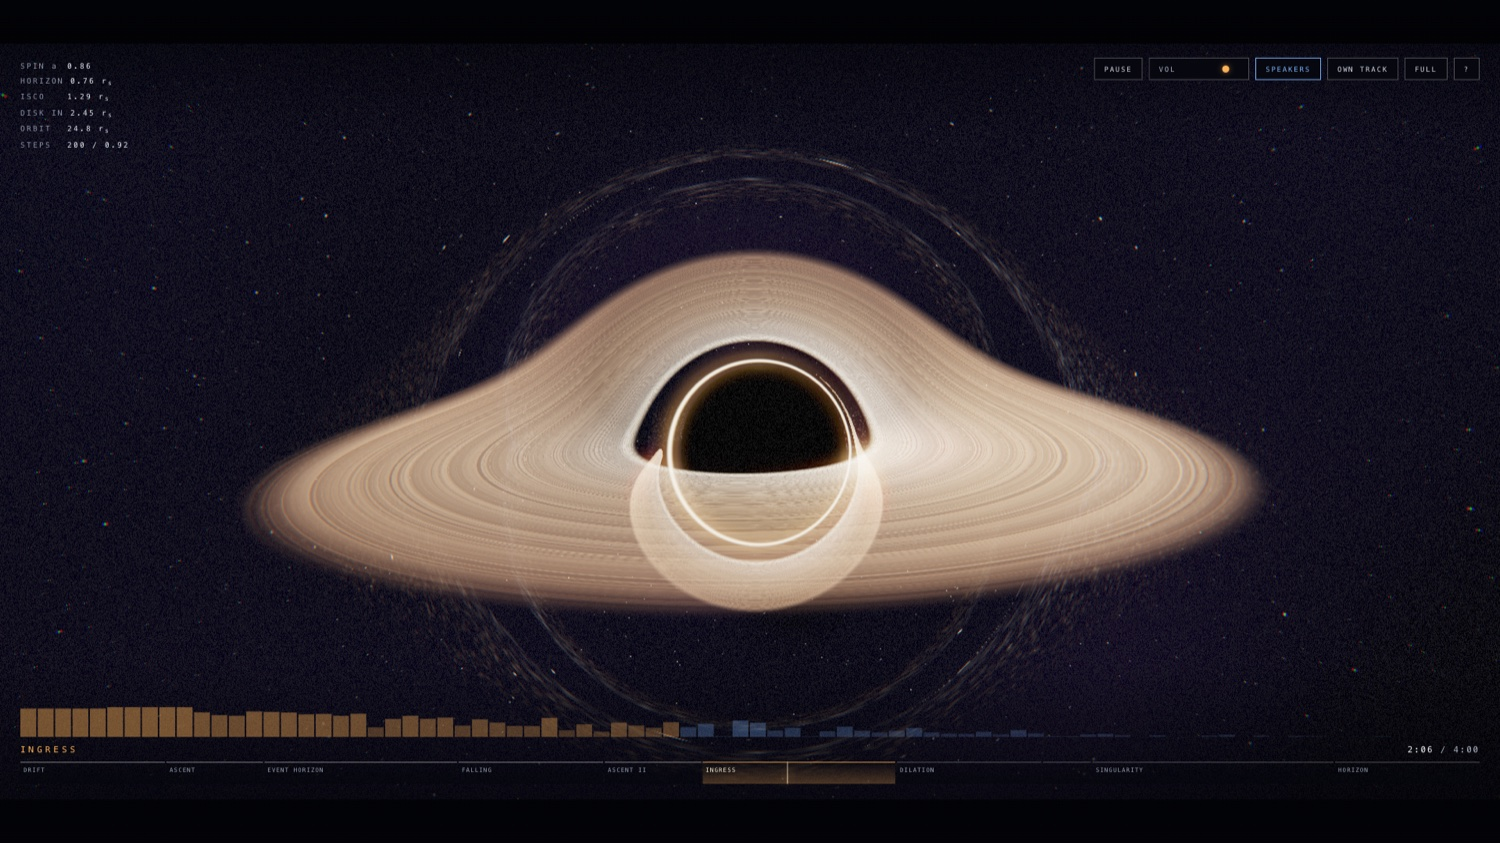
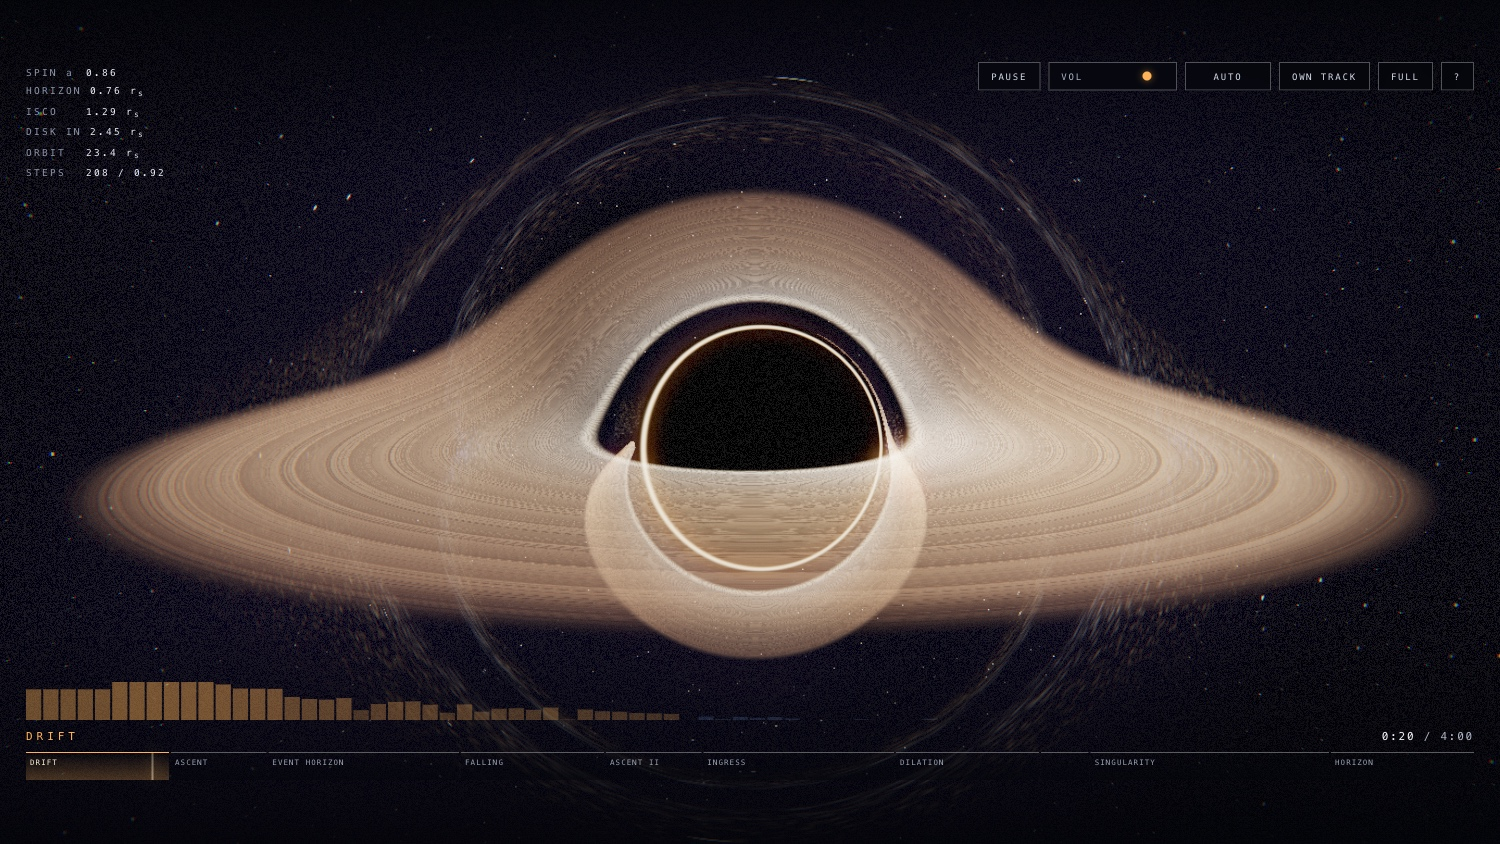
Detect the output device, and even up the picker
The voicing was a three-way manual choice defaulting to Laptop, so anyone
on headphones heard a mix built to survive a 2-inch driver until they
found the control. Auto is now the default and the fourth segment.

What the browser will actually tell us is narrow. enumerateDevices()
returns one entry with an empty label and an empty id until the page holds
a microphone permission, and prompting for the mic to choose an EQ curve
is not a trade worth making — so nothing here can spot a KEF LSX II on the
end of a cable. That leaves device class, from UA-CH and touch points, and
AudioContext.outputLatency, which sits near 10ms on a built-in output and
past 100ms over a wireless link.

So Auto picks built-in, or headphones when the link is wireless, since
earbuds are much the more common wireless output. Powered speakers stay a
deliberate choice. The line under the buttons says which guess it made and
why rather than implying a certainty that is not there, and Auto re-checks
on devicechange so plugging in headphones re-voices the mix. Choose a mode
yourself and Auto stands down — a heuristic should not overrule an
explicit choice, and it does not.

The segments are a grid of even columns now; four labels of different
lengths made ragged cells read as broken. They fold to 2x2 below 640px,
where four across left "Headphones" nothing to spare.

Two things verification turned up. The HUD label changes with the mode, so
[…]

diff --git a/src/index.html b/src/index.html
@@ -83,12 +83,24 @@ h1{font-family:var(--disp);font-weight:200;font-size:clamp(52px,15vw,168px);
 .pick{margin-top:36px;text-align:center}
 .picklabel{display:block;font-size:9px;letter-spacing:.28em;color:var(--dim);
   text-transform:uppercase;margin-bottom:10px}
-.seg2{display:inline-flex;border:1px solid var(--line)}
-.seg2 button{background:none;border:0;color:var(--dim);font-family:var(--mono);font-size:9.5px;
-  letter-spacing:.2em;text-transform:uppercase;padding:11px 18px;cursor:pointer;
-  transition:color .25s,background .25s}
+/* Even columns. The four labels differ in length, and ragged segments in a
+   control this small read as broken rather than as emphasis. minmax(0,1fr)
+   so the longest label shrinks its own cell instead of stretching the row. */
+.seg2{display:grid;grid-template-columns:repeat(4,minmax(0,1fr));
+  border:1px solid var(--line);max-width:456px;margin:0 auto}
+.seg2 button{background:none;border:0;border-left:1px solid var(--line);
+  color:var(--dim);font-family:var(--mono);font-size:9.5px;
+  letter-spacing:.14em;text-transform:uppercase;padding:11px 4px;cursor:pointer;
+  transition:color .25s,background .25s;white-space:nowrap}
+.seg2 button:first-child{border-left:0}
 .seg2 button.on{color:#05060a;background:var(--ember)}
-.seg2 button:focus-visible{outline:1px solid var(--ember);outline-offset:2px}
+.seg2 button:focus-visible{outline:1px solid var(--ember);outline-offset:-2px}
+/* Says what you are about to hear — and, on Auto, what was guessed and why.
+   Reserved height so resolving the guess does not shift the button row. */
+.pickwhy{display:block;margin-top:11px;font-size:9px;letter-spacing:.14em;
+  color:var(--dim);text-transform:uppercase;min-height:28px;line-height:1.5;
+  padding:0 12px;text-wrap:balance}
+.pickwhy b{color:var(--ember);font-weight:400}
 .note{margin-top:24px;font-size:9.5px;letter-spacing:.16em;color:var(--dim);text-align:center;padding:0 24px}
 .note a{color:var(--dim);text-decoration:underline;text-underline-offset:3px;cursor:pointer}
 
@@ -129,6 +141,9 @@ h1{font-family:var(--disp);font-weight:200;font-size:clamp(52px,15vw,168px);
      background:rgba(4,6,11,.88);outline:none}
 .btn:focus-visible{box-shadow:0 0 0 2px rgba(255,178,87,.45)}
 .btn.on{color:var(--ion);border-color:var(--ion)}
+/* this label changes with the mode (AUTO / BUILT-IN / SPEAKERS / PHONES);
+   a floor on the width stops the whole control row reflowing as it cycles */
+#bVoice{min-width:86px}
 
 .vol{display:flex;align-items:center;gap:9px;border:1px solid rgba(255,255,255,.30);
      background:rgba(4,6,11,.72);-webkit-backdrop-filter:blur(9px);backdrop-filter:blur(9px);
@@ -227,8 +242,14 @@ h1{font-family:var(--disp);font-weight:200;font-size:clamp(52px,15vw,168px);
   /* controls stay reachable on phones — they used to be hidden entirely,
      which left no way to pause or change output. left+right gives the row a
      real width so it wraps instead of running off the edge. */
-  .tr{top:calc(5.2vh + 12px);left:14px;right:14px;gap:6px;row-gap:6px}
-  .btn{font-size:8px;padding:9px 8px;letter-spacing:.12em}
+  /* six controls in ~347px: at 6px gaps and 8px padding the row came to
+     356px and wrapped, stranding the "?" alone on a second line. Trimming
+     the gap and the side padding buys 21px, which fits it on one row.
+     Under a coarse pointer the 44px touch rules below win and it wraps
+     anyway — a finger-sized target is worth more than a tidy row. */
+  .tr{top:calc(5.2vh + 12px);left:14px;right:14px;gap:5px;row-gap:6px}
+  .btn{font-size:8px;padding:9px 7px;letter-spacing:.12em}
+  #bVoice{min-width:62px}
   .vol{padding:0 9px}
   .vol input{width:56px}
   /* the "VOL" caption does not fit, so the track has to carry the meaning —
@@ -251,6 +272,14 @@ h1{font-family:var(--disp);font-weight:200;font-size:clamp(52px,15vw,168px);
   .eyebrow{font-size:9px;letter-spacing:.3em;padding:0 20px;text-align:center}
   .specs{gap:16px 24px;max-width:230px;margin-left:auto;margin-right:auto;margin-top:28px}
   .pick{margin-top:28px}
+  /* Four segments across a phone leaves "Headphones" ~76px of cell; it fits
+     but only just, and any larger text setting breaks it. Two rows of two
+     keeps the cells even and the labels whole. */
+  .seg2{grid-template-columns:repeat(2,minmax(0,1fr));max-width:300px}
+  .seg2 button{font-size:9px;letter-spacing:.12em}
+  .seg2 button:nth-child(3){border-left:0}
+  .seg2 button:nth-child(-n+2){border-bottom:1px solid var(--line)}
+  .pickwhy{min-height:34px;padding:0}
   #go{padding:16px 30px;letter-spacing:.28em}
   /* "EVENT HORIZON" is 13 characters — at full tracking it runs off a phone */
   #dropName{font-size:clamp(19px,5.6vw,30px)}
@@ -296,7 +325,7 @@ h1{font-family:var(--disp);font-weight:200;font-size:clamp(52px,15vw,168px);
     <button class="btn" id="bPause" aria-label="Pause or resume">PAUSE</button>
     <div class="vol"><span>VOL</span>
       <input id="vol" type="range" min="0" max="100" value="80" aria-label="Volume"></div>
-    <button class="btn" id="bVoice" aria-label="Toggle speaker voicing">SPEAKERS</button>
+    <button class="btn" id="bVoice" aria-label="Change output voicing">AUTO</button>
     <button class="btn" id="bLoad" aria-label="Play your own audio file">OWN TRACK</button>
     <button class="btn" id="bFull" aria-label="Toggle fullscreen">FULL</button>
     <button class="btn" id="bHelp" aria-label="Keyboard shortcuts">?</button>
@@ -332,7 +361,7 @@ h1{font-family:var(--disp);font-weight:200;font-size:clamp(52px,15vw,168px);
       <dt>← →</dt><dd>Skip 10 seconds</dd>
       <dt>↑ ↓</dt><dd>Volume</dd>
       <dt>R</dt><dd>Restart from the beginning</dd>
-      <dt>V</dt><dd>Cycle laptop / speakers / headphones</dd>
+      <dt>V</dt><dd>Cycle auto / built-in / speakers / headphones</dd>
       <dt>F</dt><dd>Fullscreen</dd>
       <dt>H or ?</dt><dd>Show or hide this panel</dd>
       <dt>Drop a file</dt><dd>Visualise your own audio</dd>
@@ -356,10 +385,12 @@ h1{font-family:var(--disp);font-weight:200;font-size:clamp(52px,15vw,168px);
   <div class="pick">
     <span class="picklabel">Playing through</span>
     <div class="seg2" role="group" aria-label="Output voicing">
-      <button data-voice="laptop" class="on" aria-pressed="true">Laptop</button>
+      <button data-voice="auto" class="on" aria-pressed="true">Auto</button>
+      <button data-voice="laptop" aria-pressed="false">Built-in</button>
       <button data-voice="monitors" aria-pressed="false">Speakers</button>
       <button data-voice="phones" aria-pressed="false">Headphones</button>
     </div>
+    <span class="pickwhy" id="pickwhy" aria-live="polite"></span>
   </div>
   <button id="go">Enter the well</button>
   <div class="note">
@@ -1872,33 +1903,102 @@ $('bFull').onclick = () => {
   else document.exitFullscreen();
 };
 const VOICE_KEY = 'kerr.voicing';
-const VOICE_ORDER = ['laptop', 'monitors', 'phones'];
-const VOICE_LABEL = { laptop:'LAPTOP', monitors:'SPEAKERS', phones:'PHONES' };
-const VOICE_DESC  = { laptop:'Voiced for laptop speakers',
+const VOICE_ORDER = ['auto', 'laptop', 'monitors', 'phones'];
+const VOICE_LABEL = { auto:'AUTO', laptop:'BUILT-IN', monitors:'SPEAKERS', phones:'PHONES' };
+const VOICE_DESC  = { laptop:'Voiced for laptop and phone speakers',
                       monitors:'Voiced for powered speakers',
                       phones:'Voiced for headphones' };
+
+/* What the platform will tell us about the output, and what it will not.
+   enumerateDevices() returns a single entry with an empty label and an empty
+   id until the page holds a microphone permission — so the make and model
+   are off the table, and prompting for the mic to choose an EQ curve is not
+   a trade worth making. Two honest signals are left:
+
+     device class    from UA-CH and touch points, which separates a handheld
+                     from a laptop or desktop
+     outputLatency   ~10ms on a built-in output; a wireless link pushes it
+                     past 100ms
+
+   Wireless tells us the output is not the built-in speaker. It does not tell
+   us whether it is earbuds or a pair of powered speakers. Earbuds are much
+   the more common answer, so that is the guess — and the caption says which
+   guess it made, rather than implying a certainty the browser cannot give.
+   Powered speakers stay a deliberate choice; nothing on the web can spot a
+   KEF LSX II on the other end of a cable. */
+function detectOutput(){
+  const ua = navigator.userAgent, uad = navigator.userAgentData;
+  const mobile = uad && typeof uad.mobile === 'boolean' ? uad.mobile
+                                                        : /Android|iPhone|iPod/i.test(ua);
+  // iPadOS presents itself as a Mac; the touch points give it away
+  const handheld = mobile || (navigator.maxTouchPoints > 1 && /Macintosh|iPad/.test(ua));
+  const c = Audio.ctx;
+  const lat = c && c.state === 'running' ? (c.outputLatency || 0) : 0;
+  const wireless = lat > 0.06;
+  return { mode: wireless ? 'phones' : 'laptop', handheld, wireless, lat };
+}
+
+let voicePref = 'auto', autoOut = null;
+
+function voiceWhy(){
+  if (voicePref !== 'auto') return VOICE_DESC[voicePref];
+  // says what was observed and what was chosen from it — the browser knows
+  // the device class and whether the link is wireless, and nothing more
+  const o = autoOut;
+  // the space before the break matters: aria-live reads the text layer, where
+  // a bare <br> would run the two sentences together
+  if (o.wireless) return 'Wireless output — voiced for <b>headphones</b>. <br>On powered speakers, tap Speakers';
+  return (o.handheld ? 'Phone or tablet' : 'Laptop or desktop') + ' — voiced for <b>built-in</b>';
+}
+
 function setVoice(mode){
-  if (!VOICE_ORDER.includes(mode)) mode = 'laptop';
-  Audio.setVoicing(mode);
+  if (!VOICE_ORDER.includes(mode)) mode = 'auto';
+  voicePref = mode;
+  autoOut = detectOutput();
+  Audio.setVoicing(mode === 'auto' ? autoOut.mode : mode);
   try { localStorage.setItem(VOICE_KEY, mode); } catch(e){}
+  // the segments track what you *chose*, so Auto stays lit while it is in charge
   document.querySelectorAll('.seg2 [data-voice]').forEach(b => {
     const on = b.dataset.voice === mode;
     b.classList.toggle('on', on);
     b.setAttribute('aria-pressed', String(on));
   });
   const b = $('bVoice');
-  if (b){ b.textContent = VOICE_LABEL[mode]; b.classList.toggle('on', mode !== 'laptop'); }
+  if (b){ b.textContent = VOICE_LABEL[mode]; b.classList.toggle('on', mode !== 'auto'); }
+  const w = $('pickwhy');
+  if (w) w.innerHTML = voiceWhy();
 }
+
+/* Re-run the guess. outputLatency means nothing until the context is running,
+   so the wireless check cannot happen until after the first gesture, and the
+   device list changes again whenever headphones are plugged in or a speaker
+   wakes up. Only ever while Auto is in charge — an explicit choice should not
+   be second-guessed by a heuristic. */
+function refreshAuto(announce){
+  if (voicePref !== 'auto') return;
+  const was = autoOut && autoOut.mode;
+  setVoice('auto');
+  if (announce && was && autoOut.mode !== was) toast(VOICE_DESC[autoOut.mode]);
+}
+
 document.querySelectorAll('.seg2 [data-voice]').forEach(b => {
   b.onclick = () => setVoice(b.dataset.voice);
 });
 function cycleVoice(){
-  const next = VOICE_ORDER[(VOICE_ORDER.indexOf(Audio.voicing) + 1) % VOICE_ORDER.length];
+  const next = VOICE_ORDER[(VOICE_ORDER.indexOf(voicePref) + 1) % VOICE_ORDER.length];
   setVoice(next);
-  toast(VOICE_DESC[next]);
+  toast(next === 'auto'
+    ? 'Auto — ' + VOICE_DESC[autoOut.mode].replace('Voiced for ', '')
+    : VOICE_DESC[next]);
 }
 $('bVoice').onclick = cycleVoice;
-try { const v = localStorage.getItem(VOICE_KEY); if (v) setVoice(v); } catch(e){}
+
+if (navigator.mediaDevices && 'ondevicechange' in navigator.mediaDevices){
+  // outputLatency still reports the old sink for a moment after a swap
+  navigator.mediaDevices.addEventListener('devicechange', () => setTimeout(() => refreshAuto(true), 400));
+}
+
+try { setVoice(localStorage.getItem(VOICE_KEY) || 'auto'); } catch(e){ setVoice('auto'); }
 
 $('bLoad').onclick = () => $('file').click();
 $('own').onclick = () => $('file').click();
@@ -1971,6 +2071,8 @@ let started = false;
 function begin(fn){
   if (!Audio.ready) Audio.init();
   fn ? fn() : Audio.start();
+  // first gesture: the context is finally running, so outputLatency can be read
+  setTimeout(() => refreshAuto(true), 350);
   if (started){ buildMap(); return; }
   started = true;
   document.body.classList.remove('boot');

diff --git a/README.md b/README.md
@@ -29,7 +29,7 @@ A single page that draws a spinning black hole the way light actually arrives at
 - **🌀 Geodesic raymarching** — every pixel integrates a null geodesic through Schwarzschild spacetime with an adaptive midpoint scheme. The photon ring, the Einstein ring and the disk's over-and-under lensed images are not drawn; they are what the integrator produces.
 - **🔥 A physically-motivated disk** — Keplerian shear, relativistic beaming, Doppler and gravitational redshift, blackbody colour by temperature, and front-to-back opacity so the disk occludes its own far side.
 - **🎼 A live score** — pipe organ, string ensemble, choir formants, a bell arpeggio, timpani and a clock tick, sequenced through ten sections in D minor by a Web Audio graph built from oscillators and filters.
-- **🎚 Three output voicings** — the same performance re-mixed for laptop speakers, powered monitors, or headphones. This is a real signal-path change, not a preset name.
+- **🎚 Three output voicings, picked for you** — the same performance re-mixed for built-in speakers, powered monitors, or headphones, chosen automatically and overridable in one tap. This is a real signal-path change, not a preset name.
 - **🎧 Bring your own audio** — drop any file on the page and the visualiser drives itself from an FFT and onset detector instead.
 
 ---
@@ -73,11 +73,22 @@ Small speakers cannot move air below roughly 150 Hz, so the fix is not to boost 
 
 | | High-pass | Sub-bass 15–35 Hz | Weight 55–100 Hz | Stereo width | Compression |
 | --- | --- | --- | --- | --- | --- |
-| **Laptop** | 48 Hz | −37.8 dB | −25.8 dB | 1.00 | most |
+| **Built-in** | 48 Hz | −37.8 dB | −25.8 dB | 1.00 | most |
 | **Speakers** | 33 Hz | −32.5 dB | −30.8 dB | 1.35 | least |
 | **Headphones** | 25 Hz | −30.3 dB | −29.3 dB | 0.90 | middle |
 
-Laptop mode trades sub energy for the harmonics that imply it. Speakers mode assumes a real woofer, so the exciter mostly steps aside — but it still filters below 33 Hz, because feeding a small driver infrasound only costs excursion. It gets the widest image and the least compression, since there is physical speaker separation and a real amplifier to use. Bass stays mono in every mode; only the mid/side stage widens.
+Built-in mode trades sub energy for the harmonics that imply it, and covers laptop and phone speakers alike — both are small drivers with nothing under ~150 Hz. Speakers mode assumes a real woofer, so the exciter mostly steps aside — but it still filters below 33 Hz, because feeding a small driver infrasound only costs excursion. It gets the widest image and the least compression, since there is physical speaker separation and a real amplifier to use. Bass stays mono in every mode; only the mid/side stage widens.
+
+### What Auto can and cannot know
+
+Auto is the default, and it is honest about being a guess. The browser will tell you two things:
+
+- **Device class**, from User-Agent Client Hints and touch points — a phone or tablet versus a laptop or desktop.
+- **`AudioContext.outputLatency`** — about 10 ms on a built-in output, past 100 ms once the signal is going over a wireless link.
+
+It will not tell you what is on the other end. `enumerateDevices()` returns a single entry with an empty label and an empty id until the page holds a **microphone** permission, and prompting for the mic just to choose an EQ curve is not a trade worth making. So nothing on the web can spot a KEF LSX II on the end of a cable.
+
+Auto therefore picks **built-in** by default and **headphones** when it sees a wireless link, since earbuds are much the more common wireless output — and the line under the buttons says which guess it made and why, rather than implying a certainty the browser cannot give. **Powered speakers stay a deliberate choice.** Pick any mode yourself and Auto stands down: the choice is remembered, and a later device change will not second-guess it. While Auto _is_ in charge it re-checks whenever the output device changes, so plugging in headphones re-voices the mix on the spot.
 
 ---
 
@@ -157,7 +168,7 @@ Live telemetry sits at top left — spin, horizon, ISCO, the disk's inner edge, 
 | ← → | Skip 10 s |
 | ↑ ↓ | Volume |
 | `R` | Restart |
-| `V` | Cycle output voicing |
+| `V` | Cycle voicing: auto / built-in / speakers / headphones |
 | `F` | Fullscreen |
 | `H` or `?` | Shortcuts |
 | Drop a file | Visualise your own audio |
